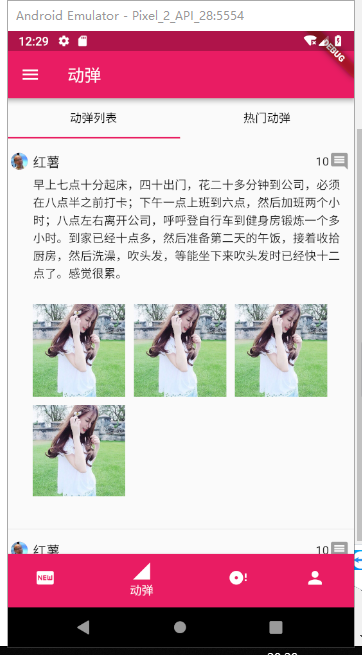
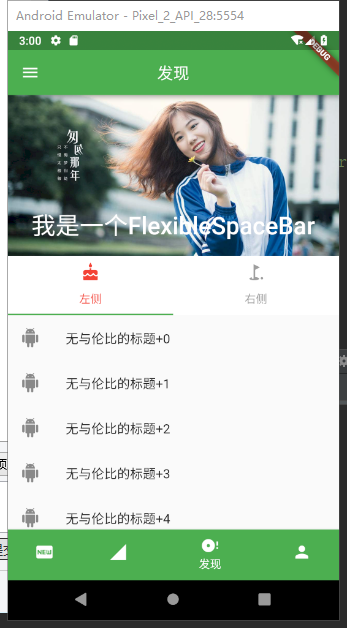
发现页面写了一个关于SliverAppBar的东西

diff --git a/lib/page/DiscoverListPage.dart b/lib/page/DiscoverListPage.dart
@@ -6,11 +6,91 @@
 
 import 'package:flutter/material.dart';
 
-class DiscoverListPage extends StatelessWidget {
+class DiscoverListPage extends StatefulWidget {
+  @override
+  State<StatefulWidget> createState() => DiscoverListState();
+}
+
+class DiscoverListState extends State<DiscoverListPage>
+    with TickerProviderStateMixin {
   @override
   Widget build(BuildContext context) {
-    return Center(
-      child: Text('DiscoverListPage'),
+    return Scaffold(
+      body: NestedScrollView(
+          headerSliverBuilder: _sliverBuilder,
+          body: Center(
+            child: ListView.builder(
+              itemBuilder: _itemBuilder,
+              itemCount: 15,
+            ),
+          )),
     );
+  }
+
+  List<Widget> _sliverBuilder(BuildContext context, bool innerBoxIsScrolled) {
+    return <Widget>[
+      SliverAppBar(
+        //标题居中
+        centerTitle: true,
+        //展开高度200
+        expandedHeight: 200.0,
+        //不随着滑动隐藏标题
+        floating: false,
+        //固定在顶部
+        pinned: false,
+        flexibleSpace: FlexibleSpaceBar(
+          centerTitle: true,
+          title: Text('我是一个FlexibleSpaceBar'),
+          background: Image.network(
+            "https://timgsa.baidu.com/timg?image&quality=80&size=b9999_10000&sec=1531798262708&di=53d278a8427f482c5b836fa0e057f4ea&imgtype=0&src=http%3A%2F%2Fh.hiphotos.baidu.com%2Fimage%2Fpic%2Fitem%2F342ac65c103853434cc02dda9f13b07eca80883a.jpg",
+            fit: BoxFit.cover,
+          ),
+        ),
+      ),
+      SliverPersistentHeader(
+          pinned: true, //固定在顶部
+          delegate: _SliverAppBarDelegate(TabBar(
+            labelColor: Colors.red,
+            unselectedLabelColor: Colors.grey,
+            tabs: [
+              Tab(icon: Icon(Icons.cake), text: '左侧'),
+              Tab(icon: Icon(Icons.golf_course), text: '右侧'),
+            ],
+            controller: TabController(length: 2, vsync: this),
+          )))
+    ];
+  }
+
+  Widget _itemBuilder(BuildContext context, int index) {
+    return ListTile(
+      leading: Icon(Icons.android),
+      title: Text('无与伦比的标题+$index'),
+    );
+  }
+}
+
+class _SliverAppBarDelegate extends SliverPersistentHeaderDelegate {
+  _SliverAppBarDelegate(this._tabBar);
+
+  final TabBar _tabBar;
+
+  @override
+  double get minExtent => _tabBar.preferredSize.height;
+
+  @override
+  double get maxExtent => _tabBar.preferredSize.height;
+
+  @override
+  Widget build(
+      BuildContext context, double shrinkOffset, bool overlapsContent) {
+    return Container(
+      child: _tabBar,
+      decoration: BoxDecoration(color: Colors.white),
+    );
+  }
+
+  @override
+  bool shouldRebuild(_SliverAppBarDelegate oldDelegate) {
+    return false;
   }
 }

diff --git a/lib/main.dart b/lib/main.dart
@@ -58,6 +58,7 @@ class MainState extends State<MyApp> with SingleTickerProviderStateMixin {
       ),
       home: Scaffold(
         appBar: AppBar(
+          centerTitle: true,
           // backgroundColor: colors[_index],
           title: Text(
             appBarTitles[_index],

diff --git a/README.md b/README.md
@@ -4,7 +4,7 @@
 
 ![](images/app1.png)
 ![](images/app2.png)
-
+![](images/app3.png)
 ## Getting Started
 
 For help getting started with Flutter, view our online
